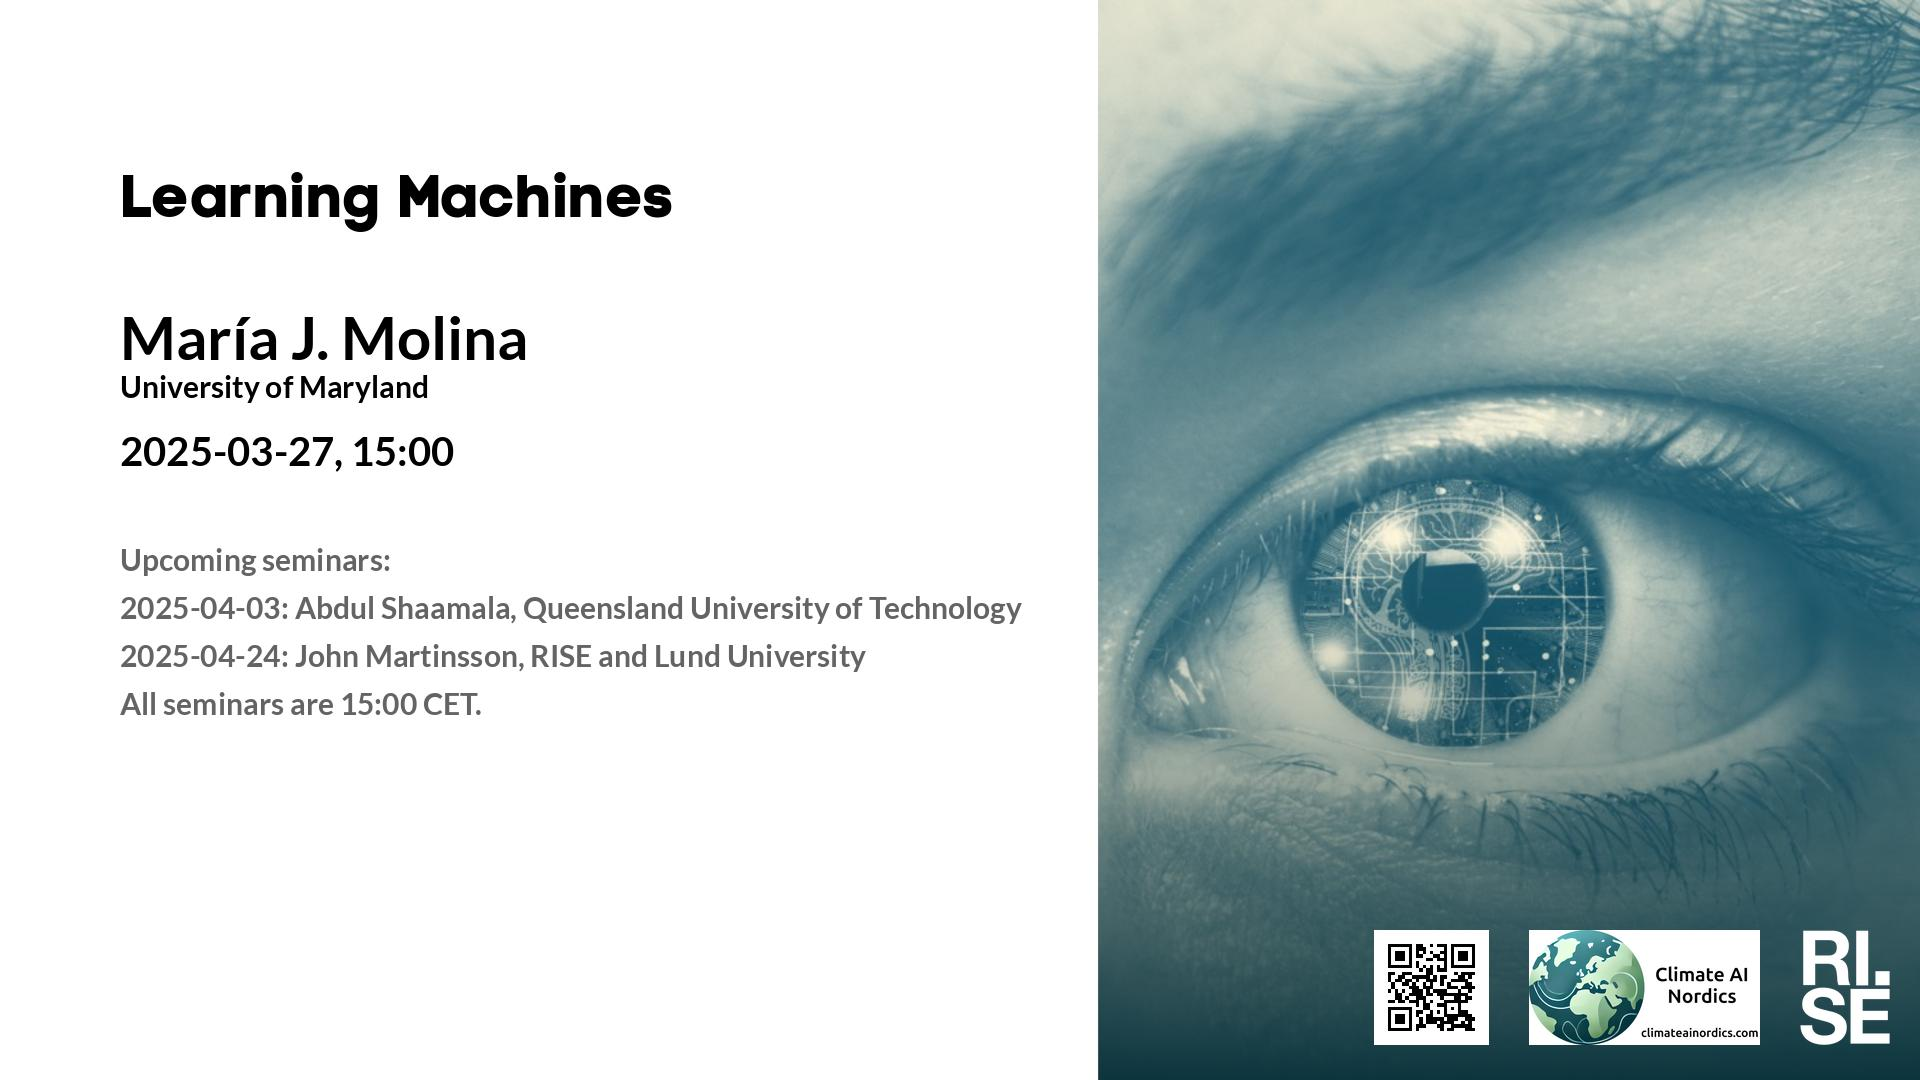
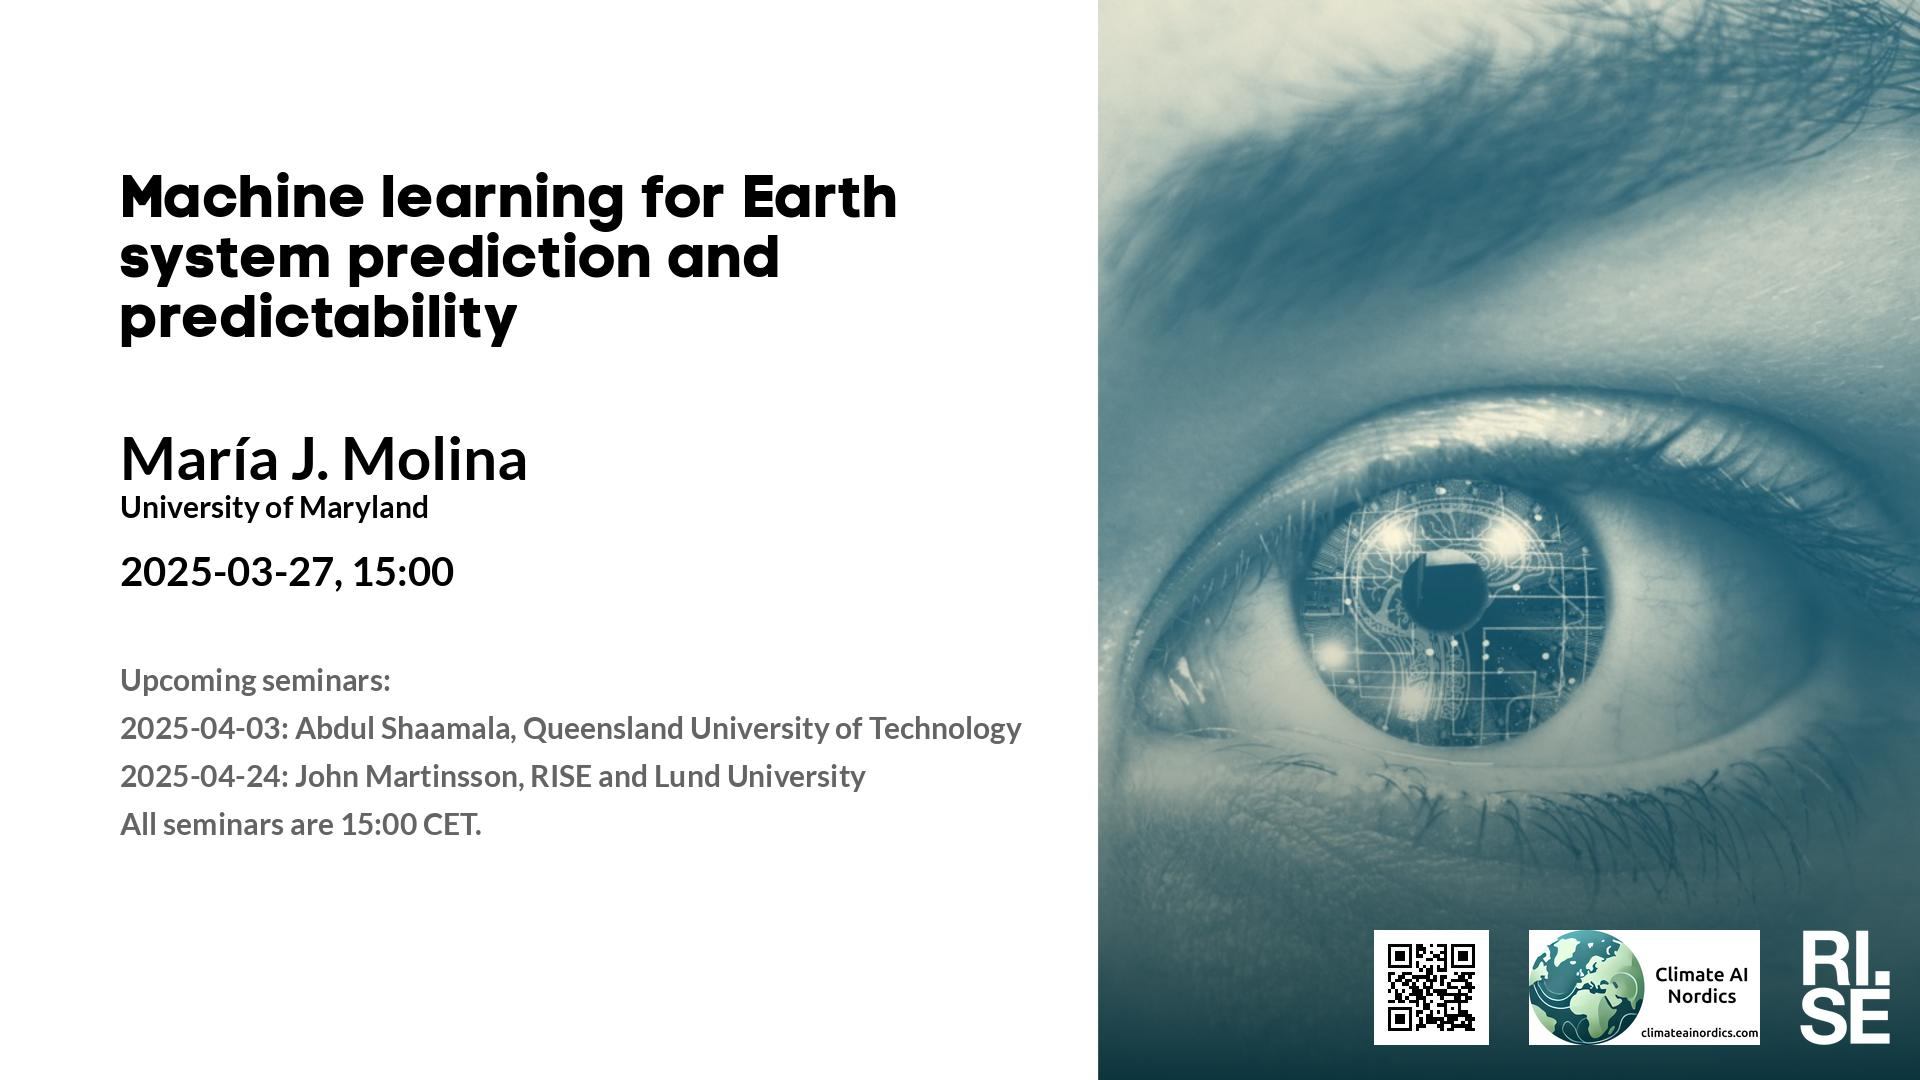
Updated plan on web site.

Changed region(s): [[0.0625, 0.3972, 0.5312, 0.7944], [0.0625, 0.1528, 0.4688, 0.3667]]

diff --git a/lm/2025-03-27.md b/lm/2025-03-27.md
@@ -7,13 +7,13 @@ Welcome to this week's Learning Machines seminar.
 
 This seminar is a collaboration between RISE and Climate AI Nordics -- [climateainordics.com](https://climateainordics.com/).
 
-**Title:** N/A
+**Title:**  Machine learning for Earth system prediction and predictability
 
 **Speaker:** María J. Molina, University of Maryland
 
-**Abstract:** N/A
+**Abstract:**  Machine learning can be used for Earth system prediction, or to study the uppermost limit of prediction skill theoretically achievable given the system&#x27;s initial state or other factors, otherwise known as predictability. In traditional numerical weather prediction frameworks, we solve the governing partial differential equations starting from an initial state. This initialized prediction framework usually involves three stages: 1) generating the initial conditions of the Earth system, 2) running the mathematical representation of the system on a computer forward in time, and 3) analyzing the output and converting it into a format that is useful for end users. Machine learning can be used to improve each of these individual stages, or to circumvent the three stage framework altogether, and examples of each will be given in this seminar. More time during the seminar will be dedicated to the challenges surrounding subseasonal prediction, which focuses on lead times of three to four weeks, and how we can use machine learning to both uncover potential biases in our initialized prediction systems and how we can bias-correct them.
 
-**About the speaker:** Professor Molina&#x27;s research focuses on the application of machine learning tools (e.g. neural networks) and numerical modeling systems (e.g. CESM) to answer pressing questions in the domains of climate and extremes. Examples of problems that she is tackling include extending Earth system prediction, understanding genesis of extremes, and uncovering multi-scale patterns in the climate system. Our research also strives to incorporate open-source software and data, accessible communication, and multi-discipline collaboration.
+**About the speaker:** Dr. Maria J. Molina is an Assistant Professor at the University of Maryland, College Park, affiliated with the Artificial Intelligence Interdisciplinary Institute and the Institute for Advanced Computer Studies. She is also affiliated with NSF NCAR in Boulder, Colorado, serves as Vice Chair of the AMS Committee on AI Applications to Environmental Science, and is a member of the US CLIVAR PPAI panel and the WCRP ESMO Scientific Steering Group. She recently received NASA’s Early Career Investigator Award. Her research applies machine learning (e.g., neural networks) and numerical modeling (e.g., CESM) to climate and extreme weather studies, focusing on Earth system prediction, extreme event genesis, and multi-scale climate patterns. She emphasizes open-source tools, accessible communication, and interdisciplinary collaboration.
 
 **Location:** This is an online seminar. Connect using Zoom.
 

diff --git a/lm/2025.md b/lm/2025.md
@@ -19,7 +19,7 @@ table {border-collapse: collapse;}
 |  2025-03-06  |  [Atakan Aral, University of Vienna](2025-03-06.md)  |  [photo](2025-03-06-photo-atakan-aral.jpg)  |  [social media ](2025-03-06-social-media-atakan-aral.jpg)  |  [meeting backdrop ](2025-03-06-meeting-backdrop-atakan-aral.jpg)  |  [youtube thumbnail ](2025-03-06-youtube-thumbnail-atakan-aral.jpg)  |  STABP  |
 |  2025-03-13  |  [Sherrie Wang, MIT](2025-03-13.md)  |  [photo](2025-03-13-photo-sherrie-wang.jpg)  |  [social media ](2025-03-13-social-media-sherrie-wang.jpg)  |  [meeting backdrop ](2025-03-13-meeting-backdrop-sherrie-wang.jpg)  |  [youtube thumbnail ](2025-03-13-youtube-thumbnail-sherrie-wang.jpg)  |  S~~TA~~BP  |
 | <span style="color:purple"> 2025-03-20 </span> | <span style="color:purple"> *Up for grabs!!!* </span> | <span style="color:purple">  </span> | <span style="color:purple">  </span> | <span style="color:purple">  </span> | <span style="color:purple">  </span> | <span style="color:purple"> ~~STABP~~ </span> |
-|  2025-03-27  |  [María J. Molina, University of Maryland](2025-03-27.md)  |  [photo](2025-03-27-photo-maria-j.-molina.jpg)  |  [social media ](2025-03-27-social-media-maria-j.-molina.jpg)  |  [meeting backdrop ](2025-03-27-meeting-backdrop-maria-j.-molina.jpg)  |  [youtube thumbnail ](2025-03-27-youtube-thumbnail-maria-j.-molina.jpg)  |  S~~TA~~BP  |
+|  2025-03-27  |  [María J. Molina, University of Maryland](2025-03-27.md)  |  [photo](2025-03-27-photo-maria-j.-molina.jpg)  |  [social media ](2025-03-27-social-media-maria-j.-molina.jpg)  |  [meeting backdrop ](2025-03-27-meeting-backdrop-maria-j.-molina.jpg)  |  [youtube thumbnail ](2025-03-27-youtube-thumbnail-maria-j.-molina.jpg)  |  STABP  |
 |  2025-04-03  |  [Abdul Shaamala, Queensland University of Technology](2025-04-03.md)  |  [photo](2025-04-03-photo-abdul-shaamala.jpg)  |  [social media ](2025-04-03-social-media-abdul-shaamala.jpg)  |  [meeting backdrop ](2025-04-03-meeting-backdrop-abdul-shaamala.jpg)  |  [youtube thumbnail ](2025-04-03-youtube-thumbnail-abdul-shaamala.jpg)  |  S~~TAB~~P  |
 | <span style="color:purple"> 2025-04-10 </span> | <span style="color:purple"> *Up for grabs!!!* </span> | <span style="color:purple">  </span> | <span style="color:purple">  </span> | <span style="color:purple">  </span> | <span style="color:purple">  </span> | <span style="color:purple"> ~~STABP~~ </span> |
 | <span style="color:red"> 2025-04-17 </span> | <span style="color:red"> Holy Thursday </span> | <span style="color:red">  </span> | <span style="color:red">  </span> | <span style="color:red">  </span> | <span style="color:red">  </span> | <span style="color:red"> CANCELLED </span> |

diff --git a/lm/index.md b/lm/index.md
@@ -19,7 +19,7 @@ table {border-collapse: collapse;}
 |  2025-03-06  |  [Atakan Aral, University of Vienna](2025-03-06.md)  |  [photo](2025-03-06-photo-atakan-aral.jpg)  |  [social media ](2025-03-06-social-media-atakan-aral.jpg)  |  [meeting backdrop ](2025-03-06-meeting-backdrop-atakan-aral.jpg)  |  [youtube thumbnail ](2025-03-06-youtube-thumbnail-atakan-aral.jpg)  |  STABP  |
 |  2025-03-13  |  [Sherrie Wang, MIT](2025-03-13.md)  |  [photo](2025-03-13-photo-sherrie-wang.jpg)  |  [social media ](2025-03-13-social-media-sherrie-wang.jpg)  |  [meeting backdrop ](2025-03-13-meeting-backdrop-sherrie-wang.jpg)  |  [youtube thumbnail ](2025-03-13-youtube-thumbnail-sherrie-wang.jpg)  |  S~~TA~~BP  |
 | <span style="color:purple"> 2025-03-20 </span> | <span style="color:purple"> *Up for grabs!!!* </span> | <span style="color:purple">  </span> | <span style="color:purple">  </span> | <span style="color:purple">  </span> | <span style="color:purple">  </span> | <span style="color:purple"> ~~STABP~~ </span> |
-|  2025-03-27  |  [María J. Molina, University of Maryland](2025-03-27.md)  |  [photo](2025-03-27-photo-maria-j.-molina.jpg)  |  [social media ](2025-03-27-social-media-maria-j.-molina.jpg)  |  [meeting backdrop ](2025-03-27-meeting-backdrop-maria-j.-molina.jpg)  |  [youtube thumbnail ](2025-03-27-youtube-thumbnail-maria-j.-molina.jpg)  |  S~~TA~~BP  |
+|  2025-03-27  |  [María J. Molina, University of Maryland](2025-03-27.md)  |  [photo](2025-03-27-photo-maria-j.-molina.jpg)  |  [social media ](2025-03-27-social-media-maria-j.-molina.jpg)  |  [meeting backdrop ](2025-03-27-meeting-backdrop-maria-j.-molina.jpg)  |  [youtube thumbnail ](2025-03-27-youtube-thumbnail-maria-j.-molina.jpg)  |  STABP  |
 |  2025-04-03  |  [Abdul Shaamala, Queensland University of Technology](2025-04-03.md)  |  [photo](2025-04-03-photo-abdul-shaamala.jpg)  |  [social media ](2025-04-03-social-media-abdul-shaamala.jpg)  |  [meeting backdrop ](2025-04-03-meeting-backdrop-abdul-shaamala.jpg)  |  [youtube thumbnail ](2025-04-03-youtube-thumbnail-abdul-shaamala.jpg)  |  S~~TAB~~P  |
 | <span style="color:purple"> 2025-04-10 </span> | <span style="color:purple"> *Up for grabs!!!* </span> | <span style="color:purple">  </span> | <span style="color:purple">  </span> | <span style="color:purple">  </span> | <span style="color:purple">  </span> | <span style="color:purple"> ~~STABP~~ </span> |
 | <span style="color:red"> 2025-04-17 </span> | <span style="color:red"> Holy Thursday </span> | <span style="color:red">  </span> | <span style="color:red">  </span> | <span style="color:red">  </span> | <span style="color:red">  </span> | <span style="color:red"> CANCELLED </span> |
